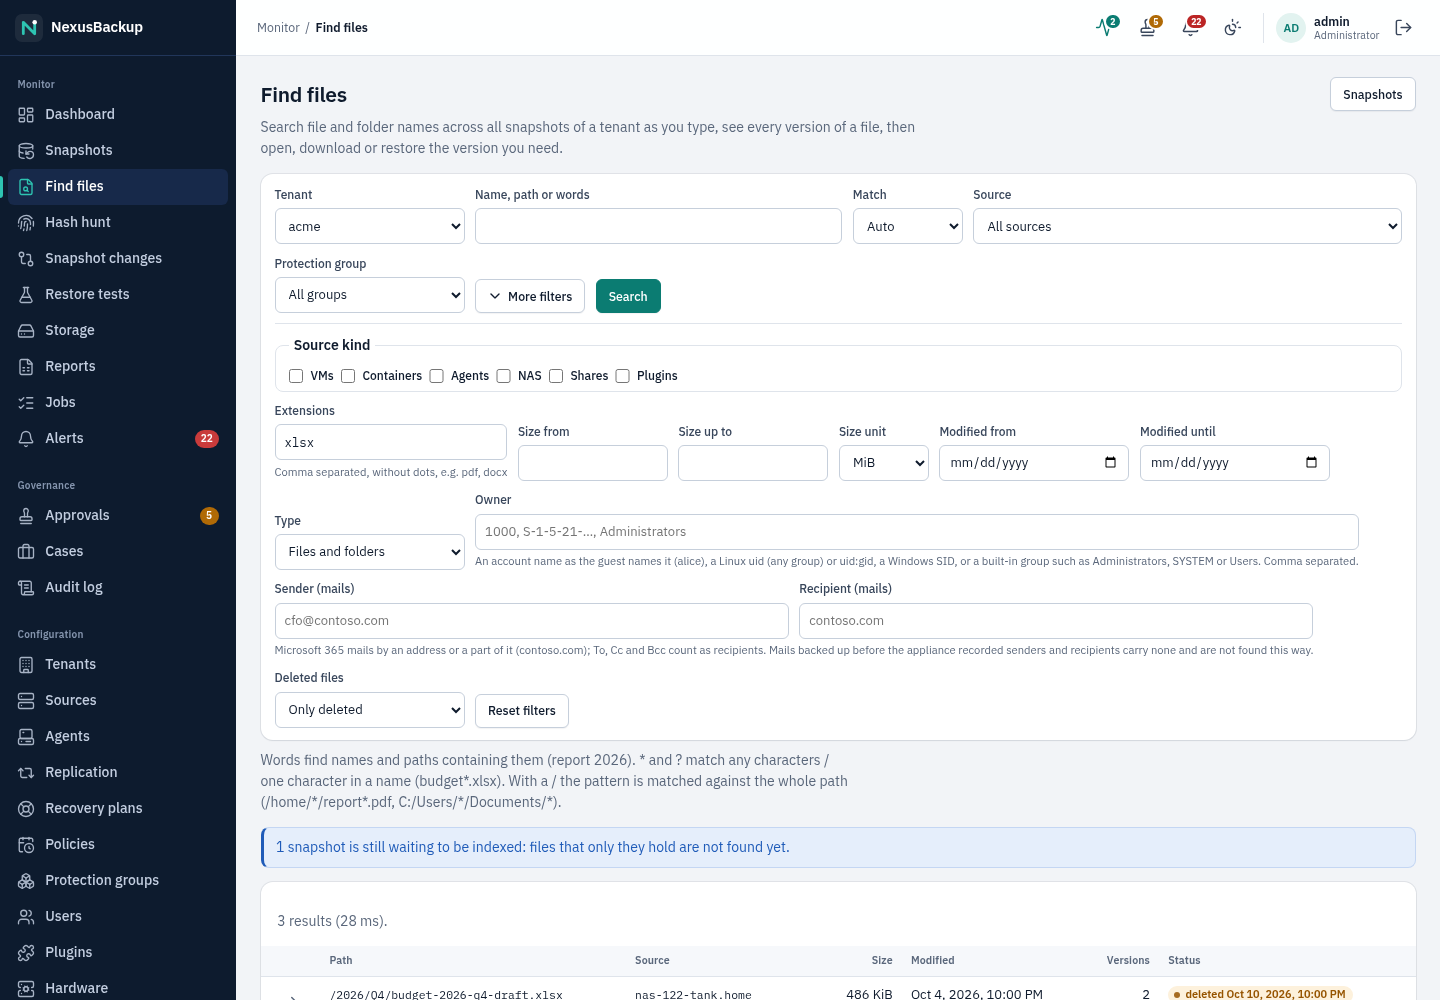
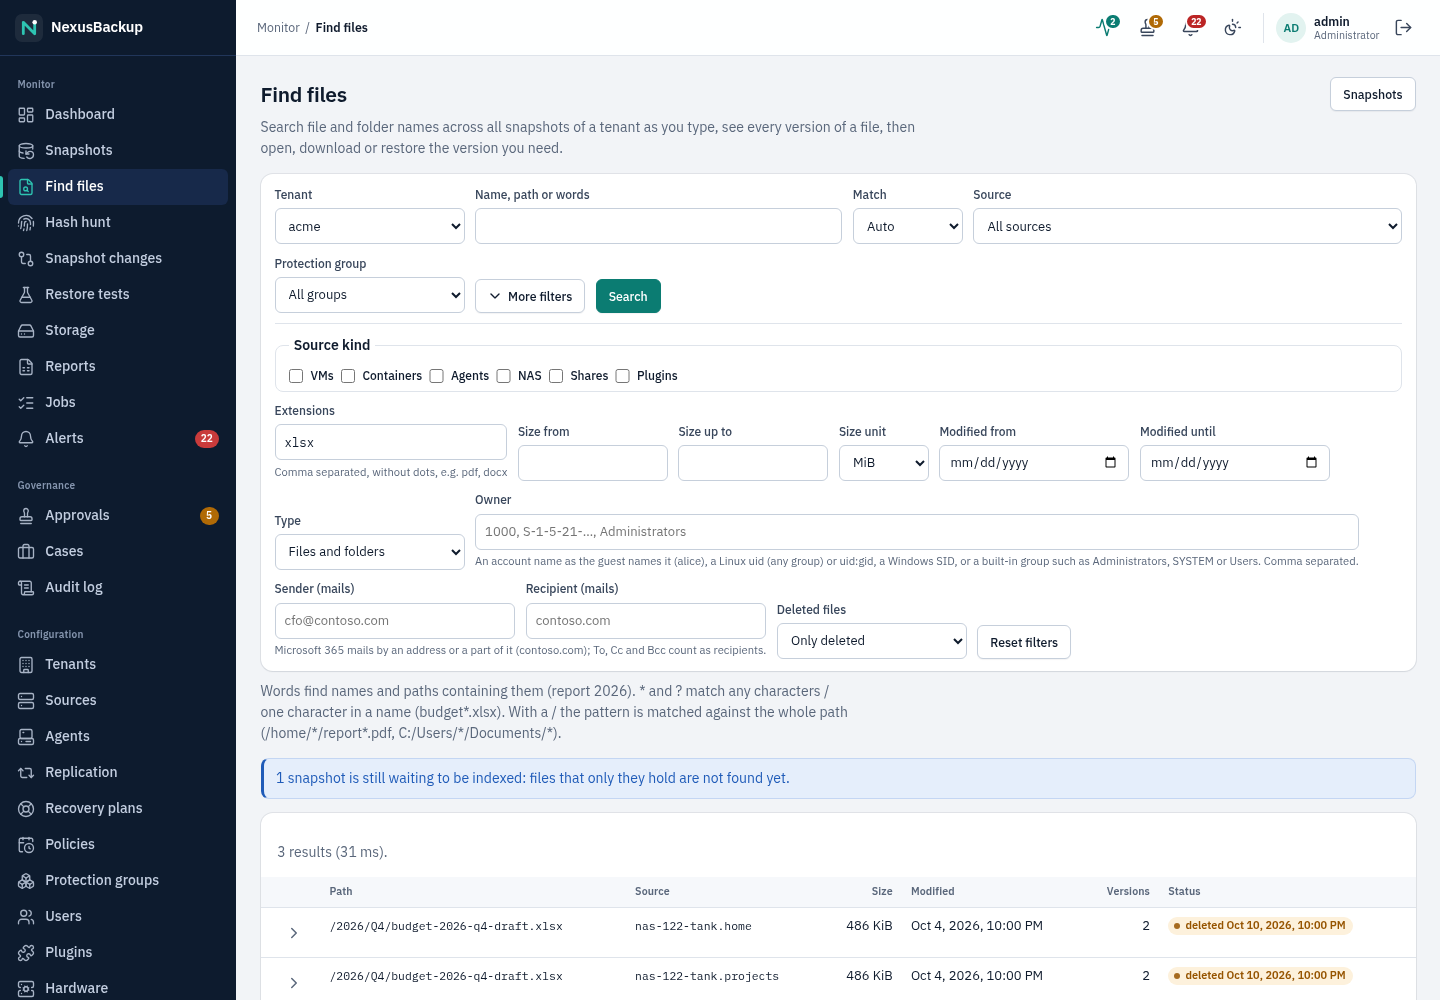
Find files: no caveat about mails without sender data (#54)
There is no installed base: every M365 backup carries the item metadata.

diff --git a/web/src/lib/i18n.ts b/web/src/lib/i18n.ts
@@ -1873,8 +1873,7 @@ export const en = {
     ownerFilter: 'Owner',
     sender: 'Sender (mails)',
     recipient: 'Recipient (mails)',
-    mailHint:
-      'Microsoft 365 mails by an address or a part of it (contoso.com); To, Cc and Bcc count as recipients. Mails backed up before the appliance recorded senders and recipients carry none and are not found this way.',
+    mailHint: 'Microsoft 365 mails by an address or a part of it (contoso.com); To, Cc and Bcc count as recipients.',
     ownerHint:
       'An account name as the guest names it (alice), a Linux uid (any group) or uid:gid, a Windows SID, or a built-in group such as Administrators, SYSTEM or Users. Comma separated.',
     sizeMin: 'Size from',

diff --git a/state.md b/state.md
@@ -1056,8 +1056,8 @@ their IDs. In progress:
   carried over for unchanged mails; criteria `sender` / `recipient`; Cases page fields). Tested against the Graph
   mock; 2026-10-25 (#54) also the instant search: the index stores the record per mail version (index format 3:
   rebuilt once), sender / recipient filters match address words (`contoso.com`); a version first seen without a
-  record gets it from a later snapshot. Open: mails backed up before the records existed have none (they would have
-  to be fetched again from Graph). Lab (VM 201, 0.0.41-dev installed with `nexusctl`): the format change rebuilt the
+  record gets it from a later snapshot. (Mails without records would only come from backups before the records existed;
+  there is no installed base, so none.) Lab (VM 201, 0.0.41-dev installed with `nexusctl`): the format change rebuilt the
   three tenant indexes at start (lab about 8 s), searches gave the same hits and versions as before (NTUSER.DAT 66,
   os-release 6, hosts 43/49), a sender filter on non-mail data finds nothing; 0 AVC denials since boot. The
   install's `offline-update.sh apply` saw the new version within its wait (status within minutes of boot, #110).

diff --git a/manual/06-restores.md b/manual/06-restores.md
@@ -527,8 +527,7 @@ press, and **Enter** searches at once.
    (**Modified from / until**), the **Type** (files only, folders only), the **Owner** (files on VM disks: an account
    name as the guest names it, such as `alice`, a Linux uid or `uid:gid`, a Windows SID, or a built-in group such as
    Administrators; comma separated), **Sender** and **Recipient** (Microsoft 365 mails: an address or a part of it
-   such as `contoso.com`; To, Cc and Bcc count as recipients; mails backed up before the appliance recorded senders
-   carry none) and **Deleted files** (show all, only deleted, hide deleted). With a filter set, the text may stay empty: for example all `.pst` files above 2 GiB,
+   such as `contoso.com`; To, Cc and Bcc count as recipients) and **Deleted files** (show all, only deleted, hide deleted). With a filter set, the text may stay empty: for example all `.pst` files above 2 GiB,
    or everything deleted in the last week. **Reset filters** clears them.
 
 ![Search results for budget* in tenant acme, one row expanded to its version timeline](images/search.png)
